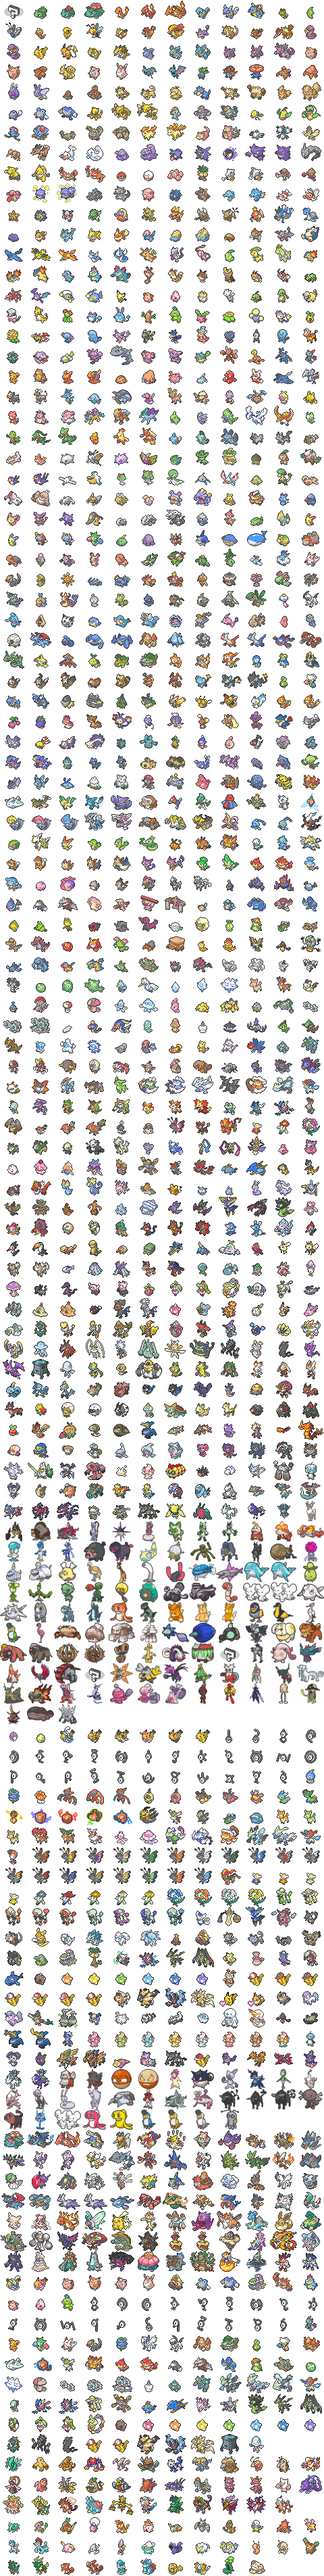
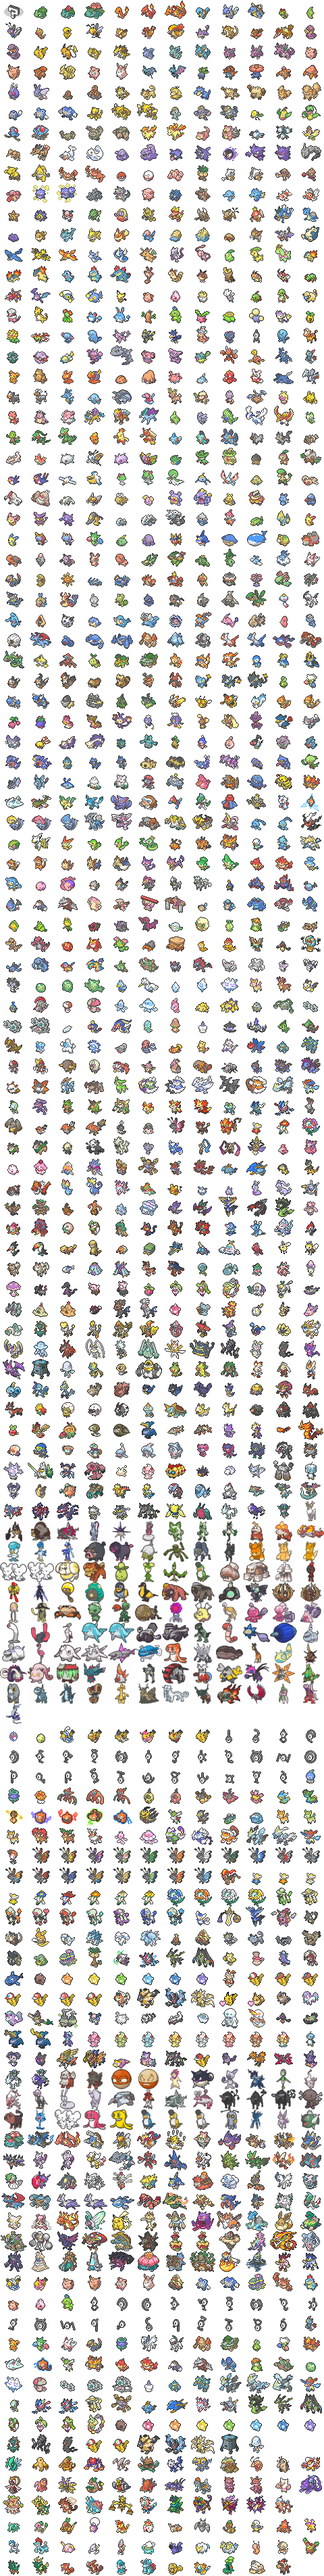
unjumbled paldea sprites

diff --git a/src/update-log.js b/src/update-log.js
@@ -23,7 +23,7 @@ class UpdateLog extends React.Component {
     return (
       <>
         <Button onClick={this.toggleDialog} style={{fontWeight: 'initial', textTransform: 'initial'}}>
-          Updated Dec 15, 2022
+          Updated Jan 10, 2023
         </Button>
         <Dialog
           open={this.state.isDialogOpen}
@@ -47,8 +47,12 @@ class UpdateLog extends React.Component {
               </Button>
             </div>
 
+            <Typography variant='subtitle2'>Jan 10, 2023</Typography>
+            <Typography paragraph>The Paldea sprites now match the names in the dropdown list.</Typography>
+
             <Typography variant='subtitle2'>Dec 18, 2022</Typography>
-            <Typography paragraph>Items are updated for gen 9. Fixed a bug where selecting a pokemon whose pre-evolution has a hyphen in their name crashes, like Basculeigon.</Typography>
+            <Typography paragraph>Items are updated for gen 9 (Credits: anonymous).</Typography>
+            <Typography paragraph>Fixed a bug where selecting a pokemon whose pre-evolution has a hyphen in their name crashes, like Basculeigon (Credits: anonymous).</Typography>
 
             <Typography variant='subtitle2'>Nov 27, 2022</Typography>
             <Typography paragraph>Hisuain form pokemon have proper movesets (Credits: anonymous).</Typography>
